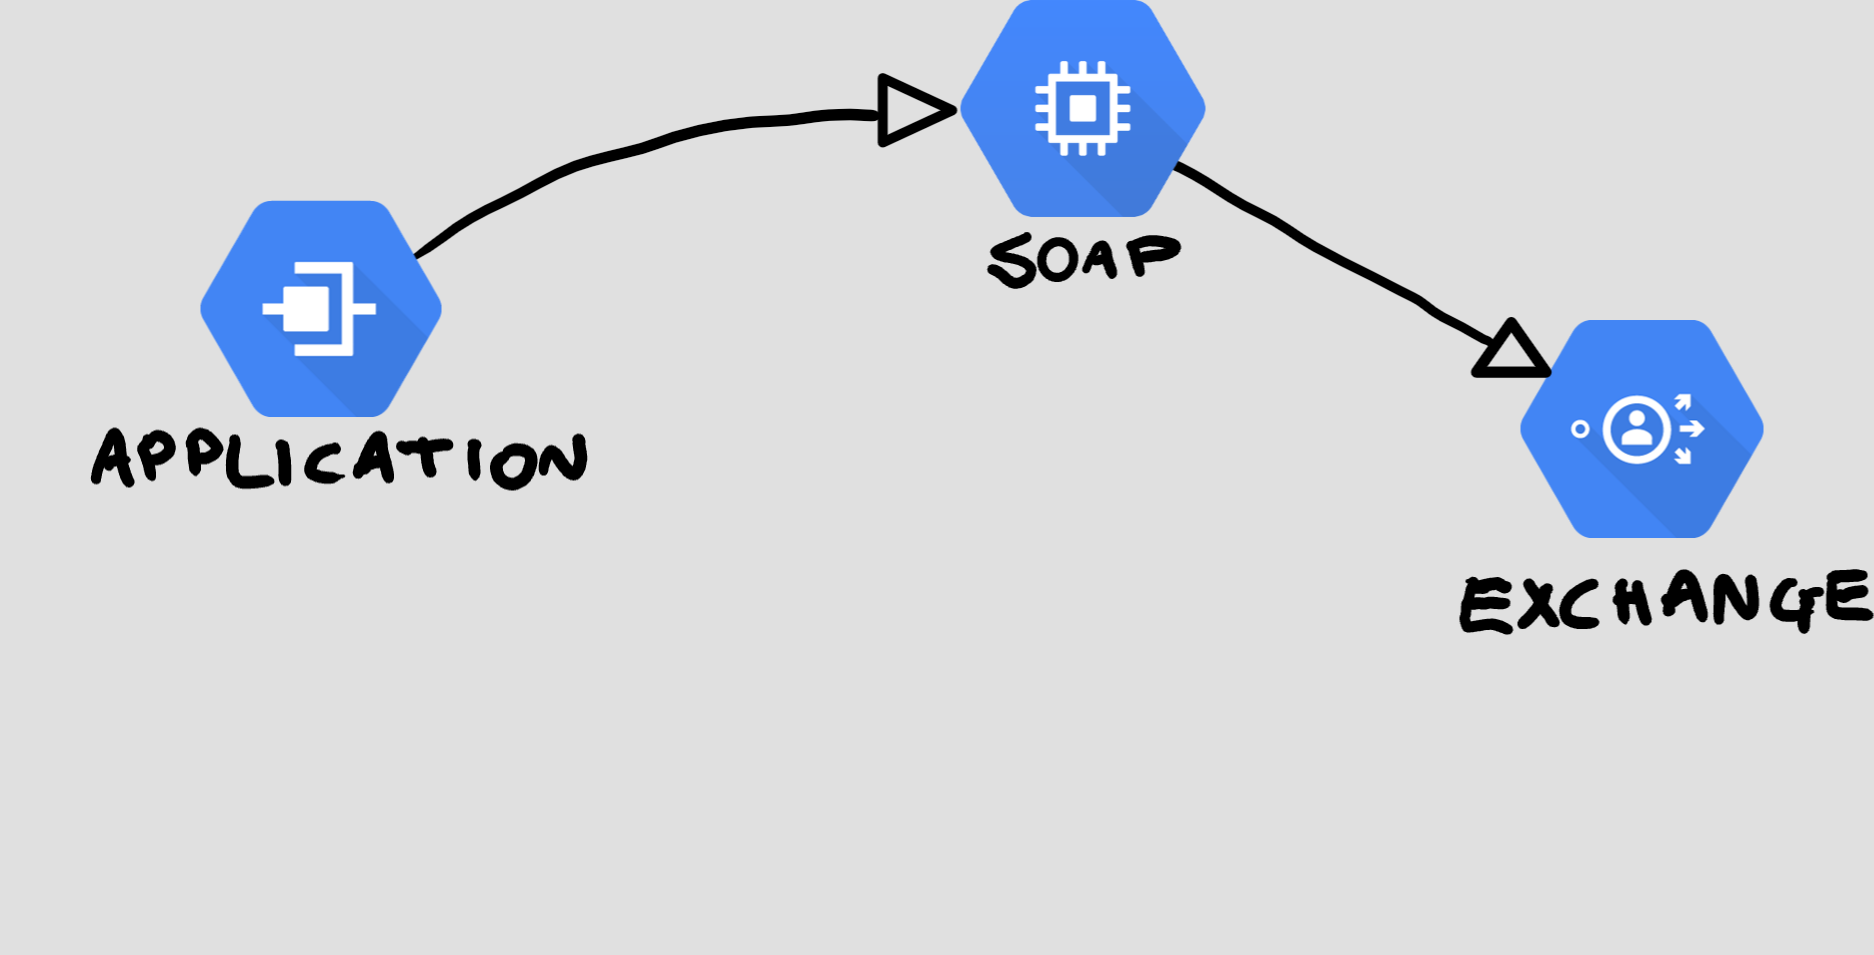
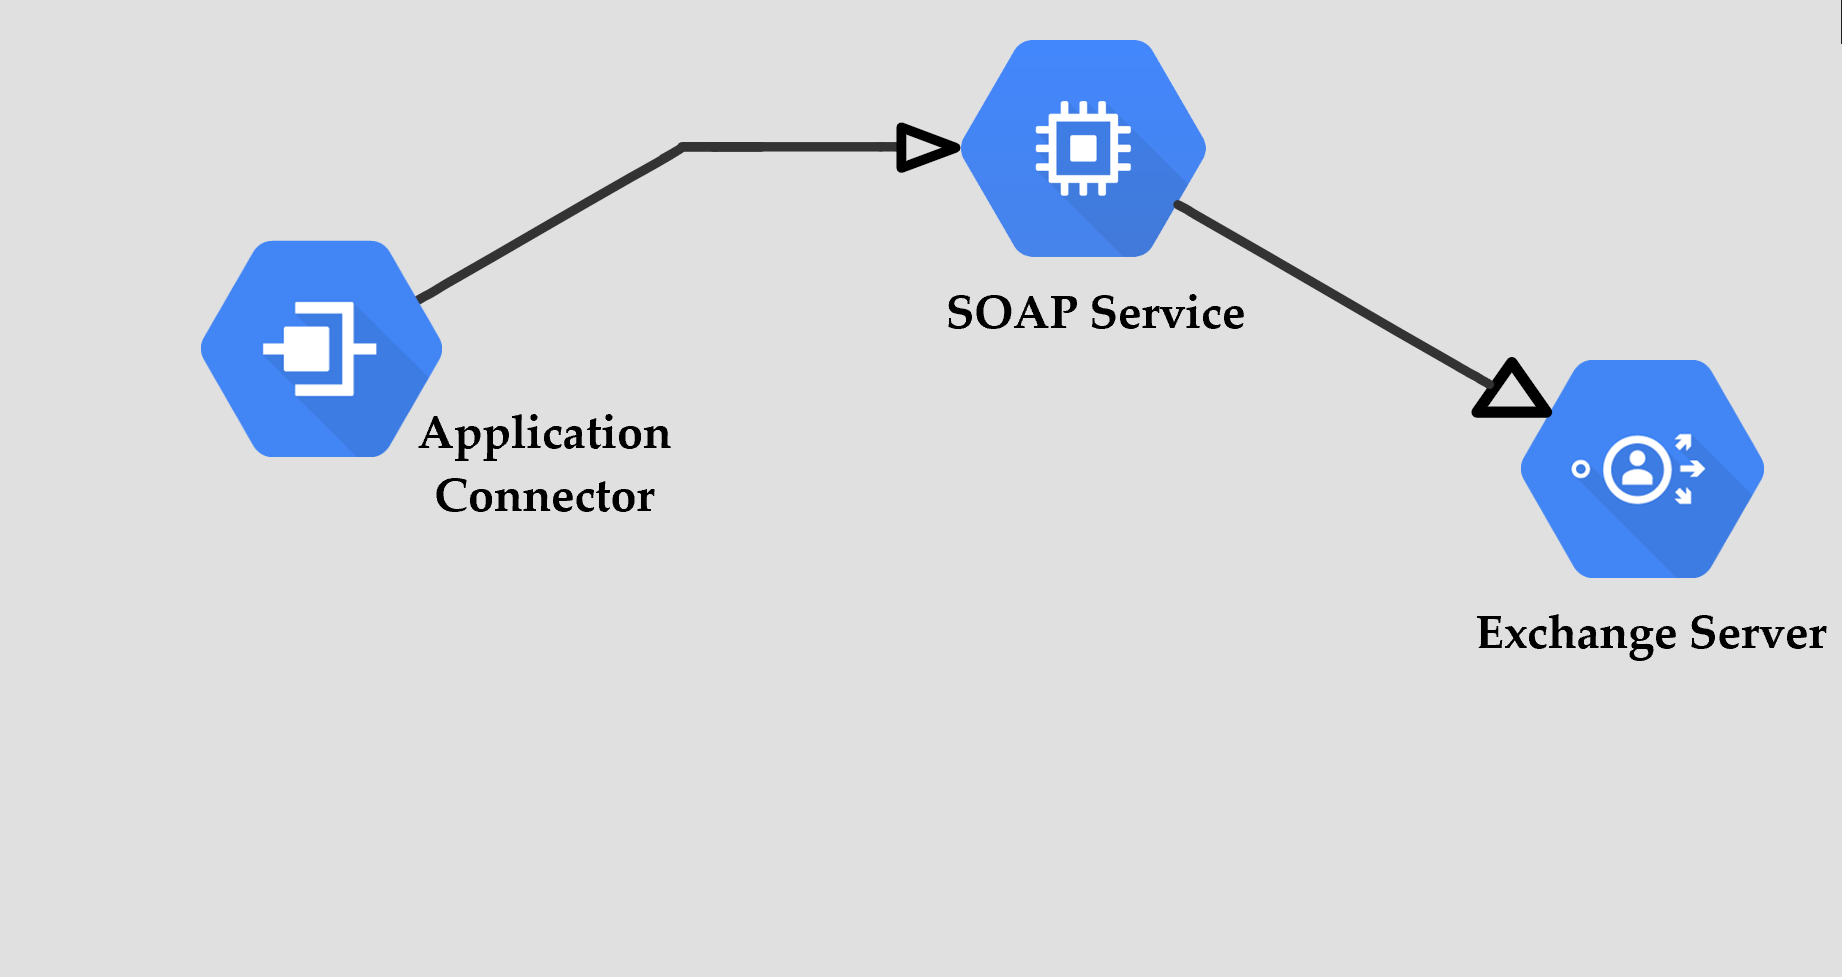
toggles: update phased rollout architecture diagram

Changed region(s): [[0.0309, 0.0, 1.0, 0.6681]]

diff --git a/feature-toggles/slides.md b/feature-toggles/slides.md
@@ -407,18 +407,12 @@ Note:
 
 
 
-![phased-rollout](img/phased-rollout-off.png) <!-- .element: class="no-border" -->
-<!-- .slide: data-transition="out-none" -->
+![phased-rollout](img/phased-rollout-new.png) <!-- .element: class="no-border" -->
+<!-- .slide: data-transition="in-none slide-out" -->
 Note:
 * magic was implemented properly in other pipeline connector
 * IEmailConnector, decorator to choose impl
 * default/toggle off = old
-
-
-
-![phased-rollout](img/phased-rollout-on.png) <!-- .element: class="no-border" -->
-<!-- .slide: data-transition="in-none slide-out" -->
-Note:
 * toggle on, queues
 * rabbitmq plus a couple of workers
 
